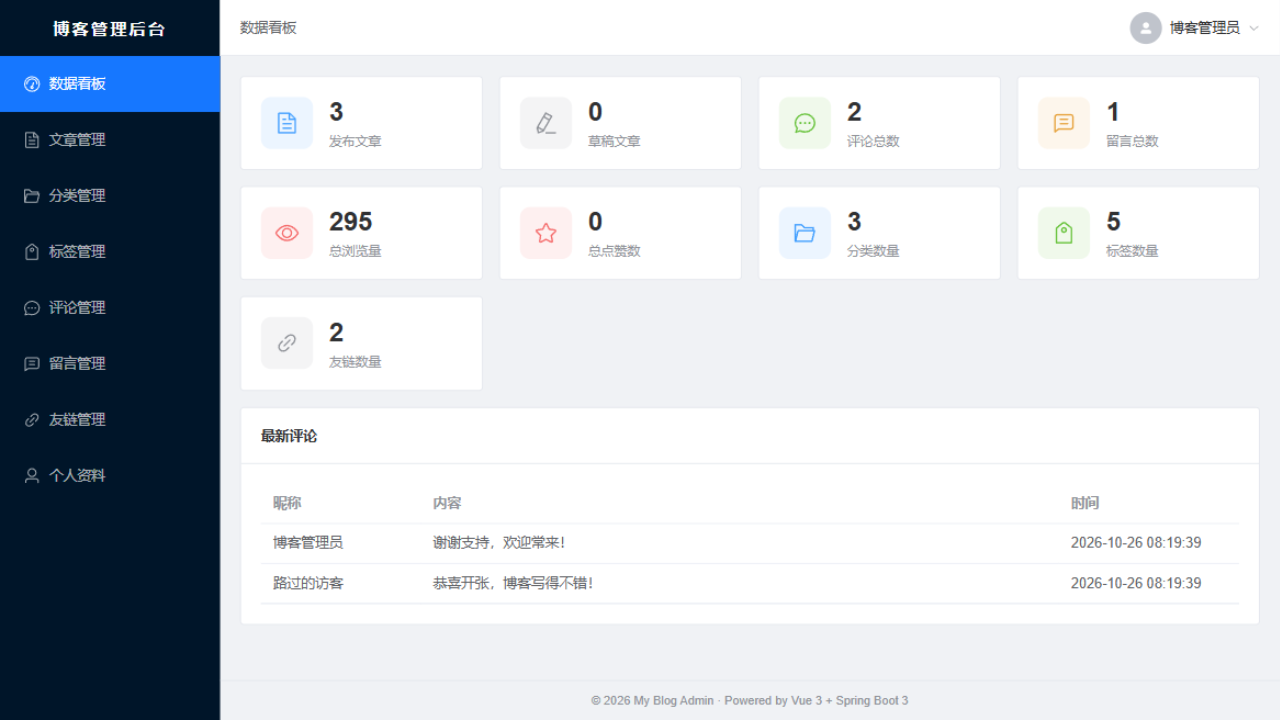
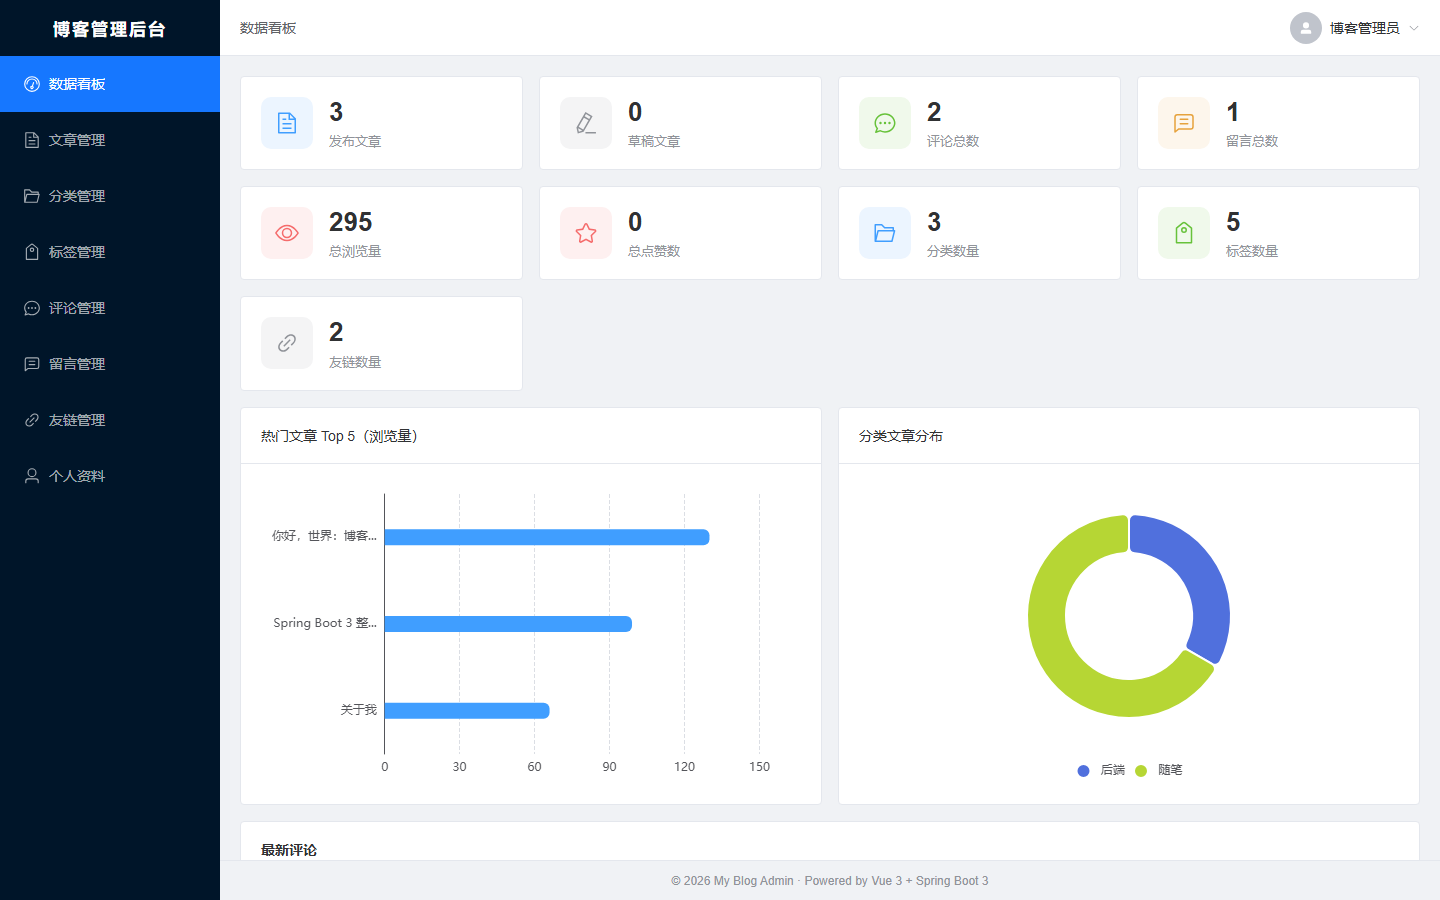
docs: README 看板截图更新为图表版（ECharts 图表 + 无 toast 干净版）

diff --git a/README.md b/README.md
@@ -14,7 +14,7 @@
 
 ![文章详情](docs/images/article-detail.png)
 
-**后台管理 · 数据看板**（统计卡片 + 最新评论）
+**后台管理 · 数据看板**（统计卡片 + 浏览量 Top5 / 分类分布图表 + 最新评论）
 
 ![后台看板](docs/images/admin-dashboard.png)
 
